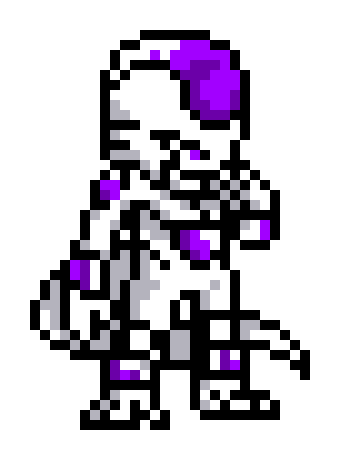
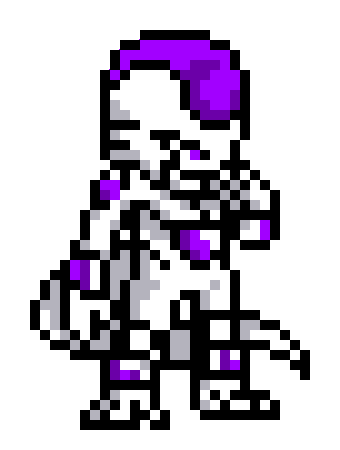
frieza fix

Changed region(s): [[0.3529, 0.0622, 0.5294, 0.1556], [0.3235, 0.1556, 0.3529, 0.1867]]

diff --git a/js/script.js b/js/script.js
@@ -50,7 +50,7 @@ $(document).ready(function () {
     var turns = 1;
     var enemiesDefeated = 0;
 
-    //function that creates the initial content with the characters adding in images and names dynamicly. Displays conent all togehter before user has made any selections. 
+    //function that creates the initial content with the characters adding in images and names dynamicly. Displays conent all togehter before user has made any selections. Called to create the user selected character/defender 
 
     var createContent = function (character, contentArea, makeChar) {
 
